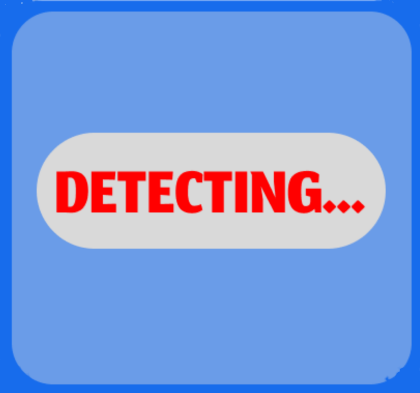
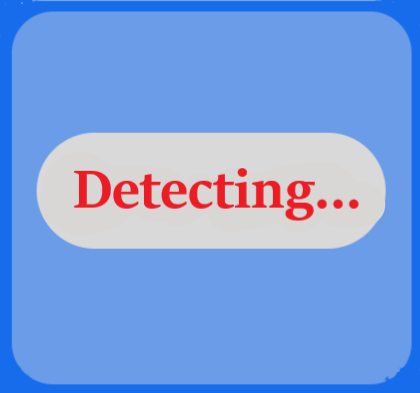
v 1.0.3 Added Motion detection

Changed region(s): [[0.1238, 0.4275, 0.8667, 0.5802], [0.8976, 0.5191, 0.9286, 0.5496]]

diff --git a/code/motion_detection.py b/code/motion_detection.py
@@ -1,0 +1,78 @@
+import cv2
+import imutils
+import threading
+import winsound
+
+def motion_tracking():
+    cap = cv2.VideoCapture(0, cv2.CAP_DSHOW)
+
+    cap.set(cv2.CAP_PROP_FRAME_HEIGHT, 480)
+    cap.set(cv2.CAP_PROP_FRAME_WIDTH, 740)
+
+    _, start_frame = cap.read()
+    start_frame = imutils.resize(start_frame, width=500)
+    start_frame = cv2.cvtColor(start_frame, cv2.COLOR_BGR2GRAY)
+    start_frame = cv2.GaussianBlur(start_frame, (21, 21), 0)
+
+    imgbackground = cv2.imread("./GUI Content/Motion_detetion_template.png")
+
+    alarm = False
+    alarm_mode = True
+    alarm_counter = 0
+
+    def beep_alarm():
+        global alarm
+        for _ in range(5):
+            if not alarm_mode:
+                break
+            # print("ALARM")
+            winsound.Beep(2500, 1000)
+        alarm = False
+
+    while True:
+        _, frame = cap.read()
+        frame = imutils.resize(frame, width=500)
+
+        if alarm_mode:
+            frame_bw = cv2.cvtColor(frame, cv2.COLOR_BGR2GRAY)
+            frame_bw = cv2.GaussianBlur(frame_bw, (5, 5), 0)
+
+            difference = cv2.absdiff(frame_bw, start_frame)
+            threshold = cv2.threshold(difference, 25, 255, cv2.THRESH_BINARY)[1]
+            start_frame = frame_bw
+
+            if threshold.sum() > 300:
+                # print(threshold.sum())
+                print(alarm_counter)
+                alarm_counter += 1
+            else:
+                alarm_counter -= 1 
+                
+            
+            threshold = cv2.cvtColor(threshold, cv2.COLOR_GRAY2BGR)
+
+            threshold = cv2.resize(threshold, (740, 480))
+            imgbackground[150:150+480, 50:50+740] = threshold
+        else:
+            frame = cv2.resize(frame, (740, 480))
+            imgbackground[150:150+480, 50:50+740] = frame
+
+        cv2.imshow("Motion_Tracking", imgbackground)
+
+        if alarm_counter > 5:
+            if not alarm:
+                alarm = True
+                threading.Thread(target=beep_alarm).start()
+
+        key_pressed = cv2.waitKey(30)
+        if key_pressed == ord("c"):
+            alarm_mode = not alarm_mode
+            alarm_counter = 0
+        if key_pressed == ord("a"):
+            alarm_mode = False
+            break
+
+    cap.release()
+    cv2.destroyAllWindows()
+
+motion_tracking()

diff --git a/code/tempCodeRunnerFile.py b/code/tempCodeRunnerFile.py
@@ -1,0 +1,2 @@
+
+        cv2.imshow("Motion_Tracking", imgbackground)
